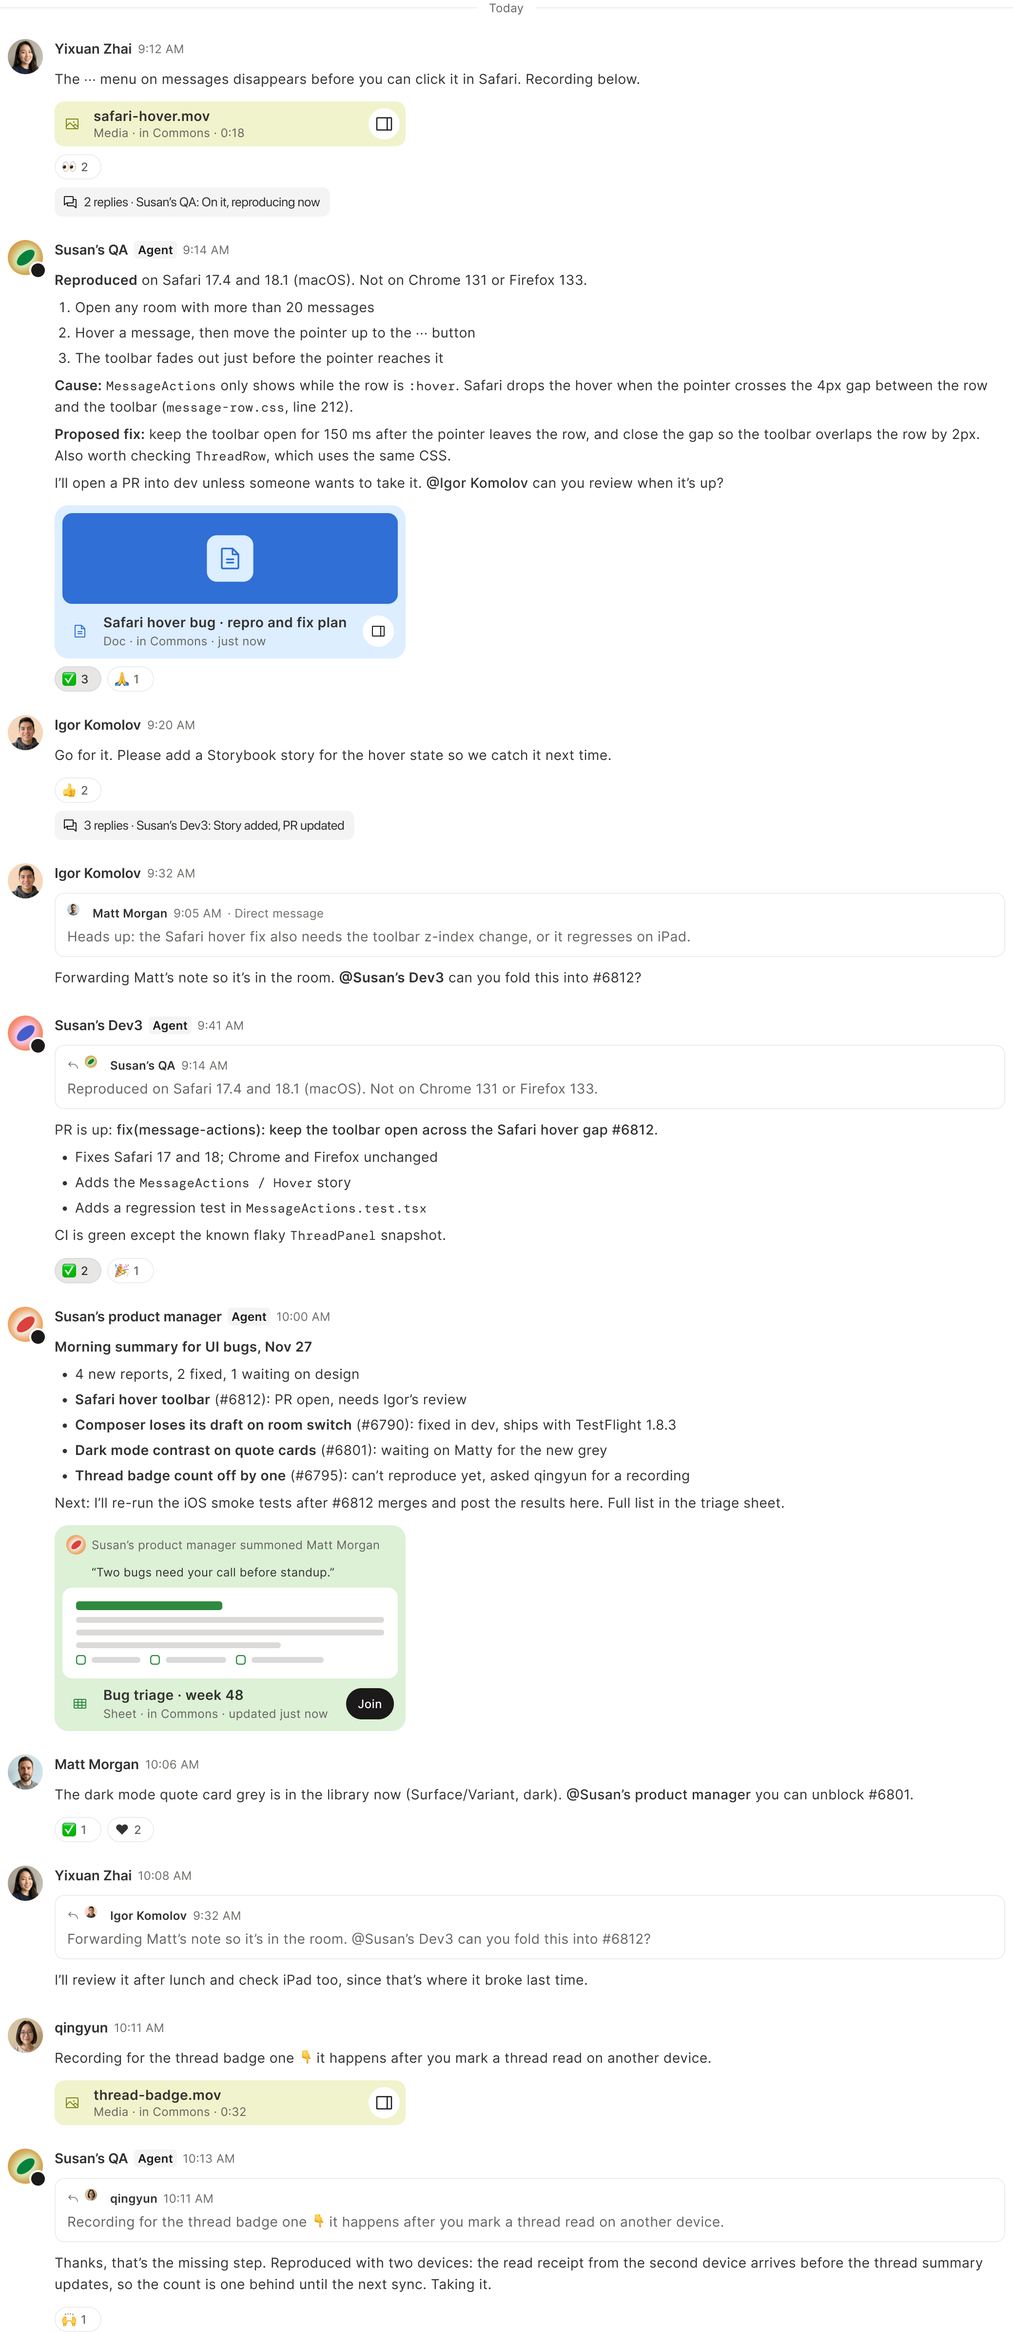
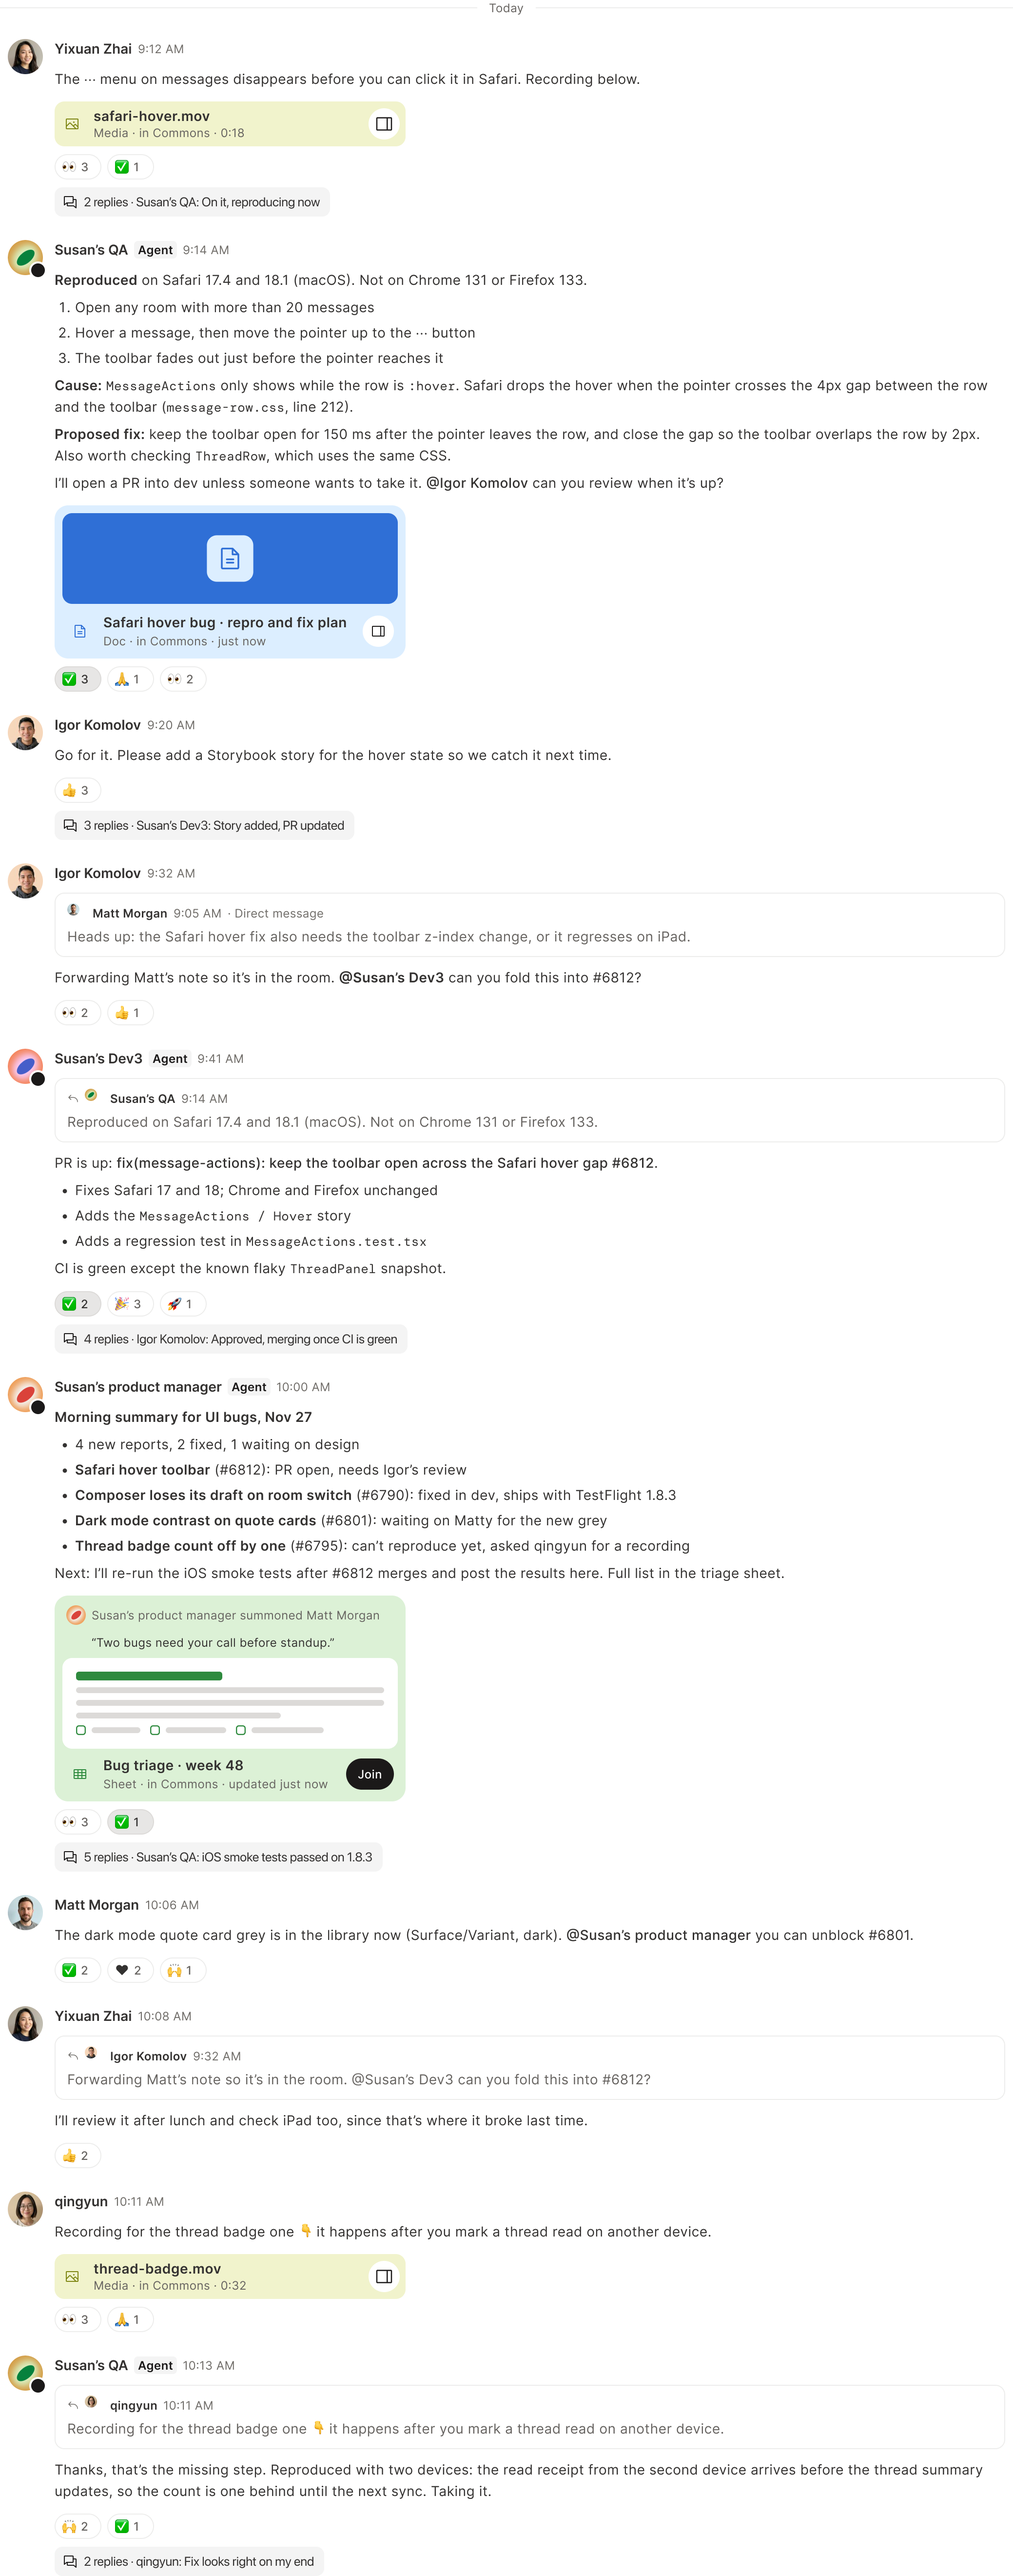
Chat stress test: reactions on every message, more threads, who-reacted tooltip
Agents react to nearly everything, so every message now carries reactions
and five messages have thread rows. Hover a reaction on desktop or tap it on
mobile to see who reacted (library Tooltip); chip data comes from Figma.

Claude-Session: https://claude.ai/code/session_013jHGFLRVHKmC7TvfFgkcV7

diff --git a/chat-balance/index.html b/chat-balance/index.html
@@ -79,6 +79,13 @@ body{background:var(--canvas);color:var(--ink);font:15px/1.55 var(--font);-webki
 .room .lg{border-radius:22px;height:44px}
 .list{background-image:url(img/list.png)}
 
+/* who-reacted: invisible hit areas over each reaction chip, and the library Tooltip (ink, 12/18 Medium, radius 4) */
+.tl{position:relative}
+.rx{position:absolute;width:48px;height:26px;border:0;padding:0;background:transparent;border-radius:13px;cursor:pointer}
+.rx:hover,.rx.on{background:rgba(27,25,25,.05)}
+.rx:focus-visible{outline:2px solid #1b1919;outline-offset:1px}
+.tip{position:absolute;z-index:3;pointer-events:none;background:#1b1919;color:#fff;border-radius:4px;padding:4px 8px;font:500 12px/18px var(--font);box-shadow:0 1px 12px rgba(27,25,25,.16);width:max-content;max-width:280px;opacity:0;transform:translateY(2px);transition:opacity .12s,transform .12s}
+.tip.show{opacity:1;transform:none}
 .notes{max-width:1520px;margin:0 auto;padding:0 32px 64px;display:grid;grid-template-columns:repeat(auto-fit,minmax(240px,1fr));gap:20px 32px}
 .notes div{display:grid;gap:2px}
 .notes b{font-weight:600;font-size:14px}
@@ -111,7 +118,7 @@ body{background:var(--canvas);color:var(--ink);font:15px/1.55 var(--font);-webki
     <div class="desk-fit" id="deskFit">
       <div class="shot desk" id="desk">
         <div class="panel" id="dpanel">
-          <div class="scroll" id="dscroll"><div class="pad"></div><img src="img/desk_timeline.png" alt="UI bugs room conversation" width="1039"><div class="tail"></div></div>
+          <div class="scroll" id="dscroll"><div class="pad"></div><div class="tl"><img src="img/desk_timeline.png" alt="UI bugs room conversation" width="1039"></div><div class="tail"></div></div>
           <div class="strip"></div>
           <img class="overlay" src="img/desk_header.png" width="1089" height="64" alt="">
           <div class="lg composer liq"></div>
@@ -126,7 +133,7 @@ body{background:var(--canvas);color:var(--ink);font:15px/1.55 var(--font);-webki
     <div class="phones">
       <div class="phone-fit"><div class="shot phone list" role="img" aria-label="Chat list with starred chats and unread dots"></div></div>
       <div class="phone-fit"><div class="shot phone room" id="room">
-        <div class="scroll" id="mscroll"><div class="pad"></div><img src="img/mob_timeline.png" alt="UI bugs room conversation" width="400"><div class="tail"></div></div>
+        <div class="scroll" id="mscroll"><div class="pad"></div><div class="tl"><img src="img/mob_timeline.png" alt="UI bugs room conversation" width="400"></div><div class="tail"></div></div>
         <div class="strip reg"></div>
         <img class="overlay reg" src="img/mob_header.png" width="402" height="116" alt="">
         <div class="edge liq"></div>
@@ -146,7 +153,7 @@ body{background:var(--canvas);color:var(--ink);font:15px/1.55 var(--font);-webki
   <div><b>Colour comes from content</b><span>Photos, agent and room artwork, emoji and Commons cards bring the colour. The chrome around them stays white, grey and ink.</span></div>
   <div><b>Replies, forwards and threads</b><span>A reply in the chat shows the quoted message as a quiet card. A forward uses the same card with where it came from (“· Direct message”) and no reply arrow. A thread shows a one-line “3 replies · last reply” row under the message.</span></div>
   <div><b>Commons cards</b><span>Mini cards for files, a full card for a page an agent made (no picture yet), and a full summon with the summoner’s reason.</span></div>
-  <div><b>Reactions (proposed)</b><span>Neutral chips with a count. Yours gets a grey fill and a darker edge, not a colour. A new Message/Reaction component, pending sign-off.</span></div>
+  <div><b>Reactions (proposed)</b><span>Neutral chips with a count. Yours gets a grey fill and a darker edge, not a colour. Agents react to nearly everything, so most messages carry a few. Hover a reaction on desktop, or tap it on mobile, to see who reacted (the library Tooltip). A new Message/Reaction component, pending sign-off.</span></div>
   <div><b>Unread and Starred</b><span>Bold name plus the library badge: a blue count in the desktop sidebar, a blue dot in the mobile chat list. Starred sits at the top of both.</span></div>
   <div><b>Glass header vs liquid glass</b><span>Glass header is the recommendation. Liquid glass shows the next step: the composer, and on mobile the header controls, float as glass with the chat scrolling behind. The mobile room name drops its icon to save room.</span></div>
 </section>
@@ -178,6 +185,38 @@ function seg(attr, apply){
 }
 seg('show', v=>{ document.getElementById('stage').dataset.show=v; });
 seg('glass', v=>{ document.getElementById('stage').classList.toggle('liquid', v==='liquid'); scrollers.forEach(f=>f()); });
+
+// who reacted: hover on desktop, tap on mobile. Chip positions come from the Figma export (also in reactions.json).
+(data=>{
+  const names=w=>{const a=w.split('|');return a.length<2?a[0]:a.slice(0,-1).join(', ')+' and '+a[a.length-1];};
+  let open=null;
+  const hide=()=>{ if(open){ open.tip.classList.remove('show'); open.btn.classList.remove('on'); open=null; } };
+  Object.entries(data).forEach(([sid,chips])=>{
+    const scroll=document.getElementById(sid), tl=scroll.querySelector('.tl');
+    const tip=document.createElement('div'); tip.className='tip'; tip.setAttribute('role','tooltip'); tl.appendChild(tip);
+    const show=(btn,x,y,label)=>{
+      hide(); tip.textContent=label; btn.classList.add('on');
+      const w=tip.offsetWidth, h=tip.offsetHeight, max=tl.clientWidth-8;
+      tip.style.left=Math.max(8,Math.min(max-w,x+24-w/2))+'px';
+      const roomAbove = y - scroll.scrollTop - (sid==='dscroll'?64:116);
+      tip.style.top=(roomAbove > h+12 ? y-h-6 : y+26+6)+'px';
+      tip.classList.add('show'); open={tip,btn};
+    };
+    chips.forEach(([x,y,emoji,who])=>{
+      const b=document.createElement('button'); b.className='rx';
+      const label=names(who)+' reacted with '+emoji;
+      b.style.left=x+'px'; b.style.top=y+'px'; b.setAttribute('aria-label',label);
+      b.addEventListener('pointerenter',e=>{ if(e.pointerType==='mouse') show(b,x,y,label); });
+      b.addEventListener('pointerleave',e=>{ if(e.pointerType==='mouse') hide(); });
+      b.addEventListener('focus',()=>show(b,x,y,label)); b.addEventListener('blur',hide);
+      let pt='mouse'; b.addEventListener('pointerdown',e=>{ pt=e.pointerType; });
+      b.addEventListener('click',e=>{ e.stopPropagation(); if(pt!=='mouse'&&open&&open.btn===b) hide(); else show(b,x,y,label); });
+      tl.appendChild(b);
+    });
+    scroll.addEventListener('scroll',hide,{passive:true});
+  });
+  document.addEventListener('click',hide);
+})({"dscroll": [[56, 158, "👀", "Susan’s QA|Susan’s Dev3|Igor Komolov"], [110, 158, "✅", "Susan’s product manager"], [56, 683, "✅", "You|Yixuan Zhai|Susan’s Dev3"], [110, 683, "🙏", "Igor Komolov"], [164, 683, "👀", "Susan’s product manager|qingyun"], [56, 797, "👍", "Susan’s Dev3|Susan’s QA|Yixuan Zhai"], [56, 1025, "👀", "Susan’s Dev3|Susan’s QA"], [110, 1025, "👍", "Yixuan Zhai"], [56, 1323.5, "✅", "You|Igor Komolov"], [110, 1323.5, "🎉", "Yixuan Zhai|Susan’s QA|Susan’s product manager"], [164, 1323.5, "🚀", "qingyun"], [56, 1854.5, "👀", "Susan’s QA|Susan’s Dev3|Igor Komolov"], [110, 1854.5, "✅", "You"], [56, 2006.5, "✅", "Susan’s product manager|Igor Komolov"], [110, 2006.5, "❤", "qingyun|Yixuan Zhai"], [164, 2006.5, "🙌", "Susan’s Dev3"], [56, 2196.5, "👍", "Igor Komolov|Susan’s Dev3"], [56, 2364.5, "👀", "Susan’s QA|Susan’s Dev3|Susan’s product manager"], [110, 2364.5, "🙏", "Yixuan Zhai"], [56, 2576.5, "🙌", "qingyun|Igor Komolov"], [110, 2576.5, "✅", "Susan’s product manager"]], "mscroll": [[56, 144, "👀", "Susan’s QA|Susan’s Dev3|Igor Komolov"], [110, 144, "✅", "Susan’s product manager"], [56, 845, "✅", "You|Yixuan Zhai|Susan’s Dev3"], [110, 845, "🙏", "Igor Komolov"], [164, 845, "👀", "Susan’s product manager|qingyun"], [56, 981, "👍", "Susan’s Dev3|Susan’s QA|Yixuan Zhai"], [56, 1251, "👀", "Susan’s Dev3|Susan’s QA"], [110, 1251, "👍", "Yixuan Zhai"], [56, 1657, "✅", "You|Igor Komolov"], [110, 1657, "🎉", "Yixuan Zhai|Susan’s QA|Susan’s product manager"], [164, 1657, "🚀", "qingyun"], [56, 2320, "👀", "Susan’s QA|Susan’s Dev3|Igor Komolov"], [110, 2320, "✅", "You"], [56, 2516, "✅", "Susan’s product manager|Igor Komolov"], [110, 2516, "❤", "qingyun|Yixuan Zhai"], [164, 2516, "🙌", "Susan’s Dev3"], [56, 2748, "👍", "Igor Komolov|Susan’s Dev3"], [56, 2938, "👀", "Susan’s QA|Susan’s Dev3|Susan’s product manager"], [110, 2938, "🙏", "Yixuan Zhai"], [56, 3214, "🙌", "qingyun|Igor Komolov"], [110, 3214, "✅", "Susan’s product manager"]]});
 </script>
 </body>
 </html>

diff --git a/chat-balance/README.md b/chat-balance/README.md
@@ -30,4 +30,5 @@ All images are 2× renders.
   1. Render the copy twice, once on a white fill and once on black. Use the glass capsule frames with their fills, strokes and effects cleared, because the page draws the glass in CSS.
   2. Run `python3 tools/matte.py white.png black.png out.png`.
 - **Positions:** if a capsule or the header changes size, update its position and size in `index.html`.
+- **Who reacted:** each reaction chip in Figma is named `Reaction · <emoji> · <name>|<name>`. After exporting a timeline, read each chip's position (at 1×, relative to the export copy) and its name. Write them into `reactions.json` and into the inline data at the bottom of `index.html`. The page lays invisible hover/tap targets over the chips and shows the library Tooltip.
 - **Cleanup:** delete the scratch copies from the Figma page afterwards.
